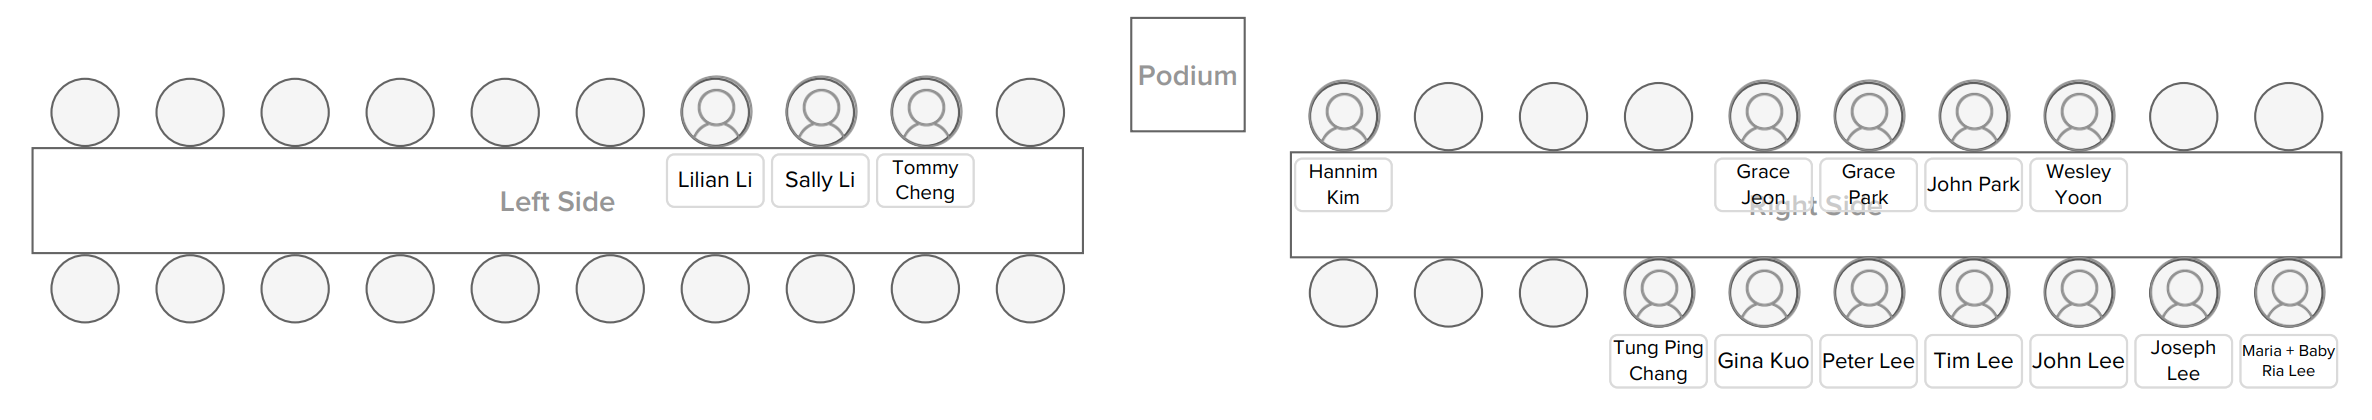
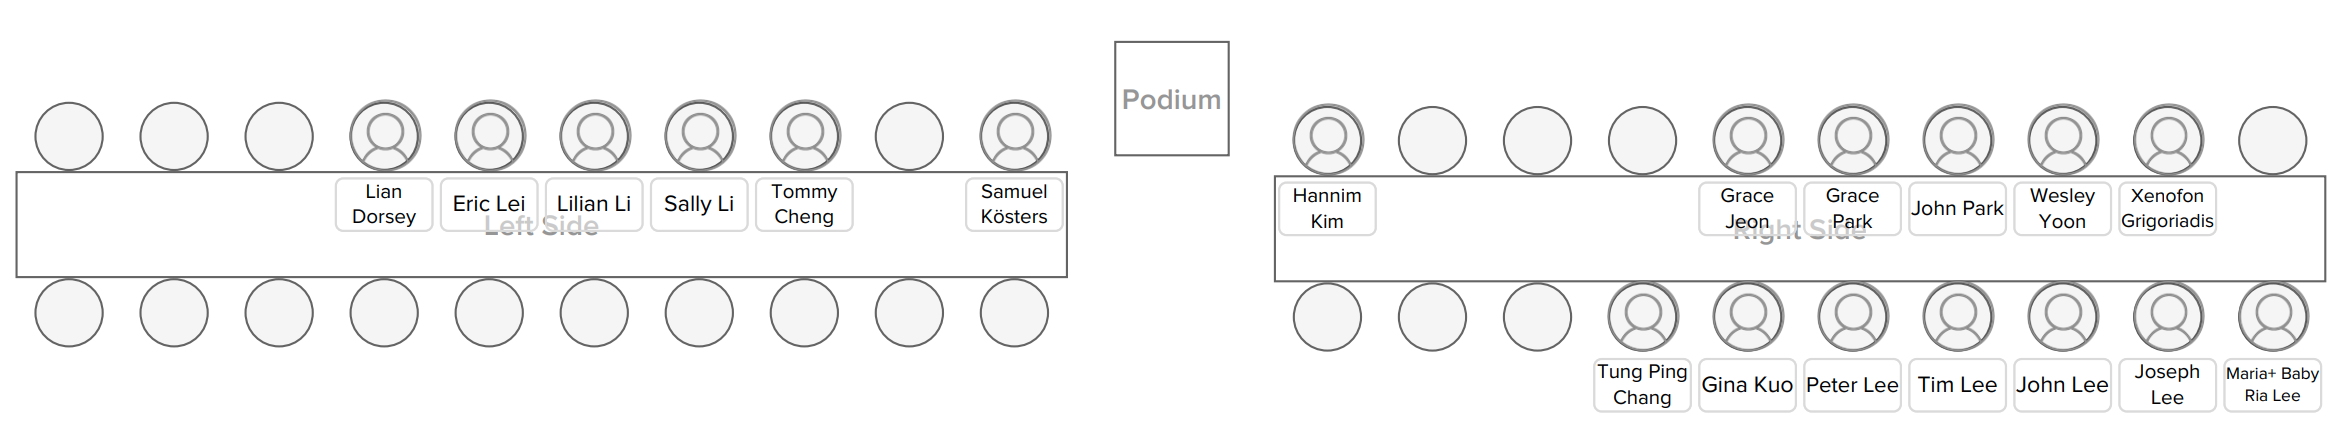
updated ushers

diff --git a/vendors-ushers.html b/vendors-ushers.html
@@ -63,9 +63,10 @@
                                         <li>Hand out programs / ensure every chair has a program on it (TBD)</li>
                                         <li>Direct guests to seating</li>
                                         <li>Ensure front 1st row on the right side and 1st & 2nd rows on the left side are reserved for family (these rows will also have signs)</li>
+                                        <li>Samuel Kösters & Hannim Kim <b>MUST</b> have the 1st seat on the first row of either side</li>
                                         <li>We do not have a brides' side & grooms' side, so just make sure each side is balanced</li>
-                                        <li>Remind guests that this is an <b><u>unplugged ceremony</u></b> so all phones and cameras should be put away until cocktail hour</li>
                                         <li>Let guests know where the exits & restrooms are (in the main building)</li>
+                                        <li>Remind guests that this is an <b><u>unplugged ceremony</u></b> so all phones and cameras should be put away until cocktail hour</li>
                                         <li>Whatever you do, Jean/Tommy/Sally <b><u>MUST</u></b> sit on opposite sides of Hui, Sherry, Gi, and Tung Ping!!</li>
                                     </ul>
                                 </p>
